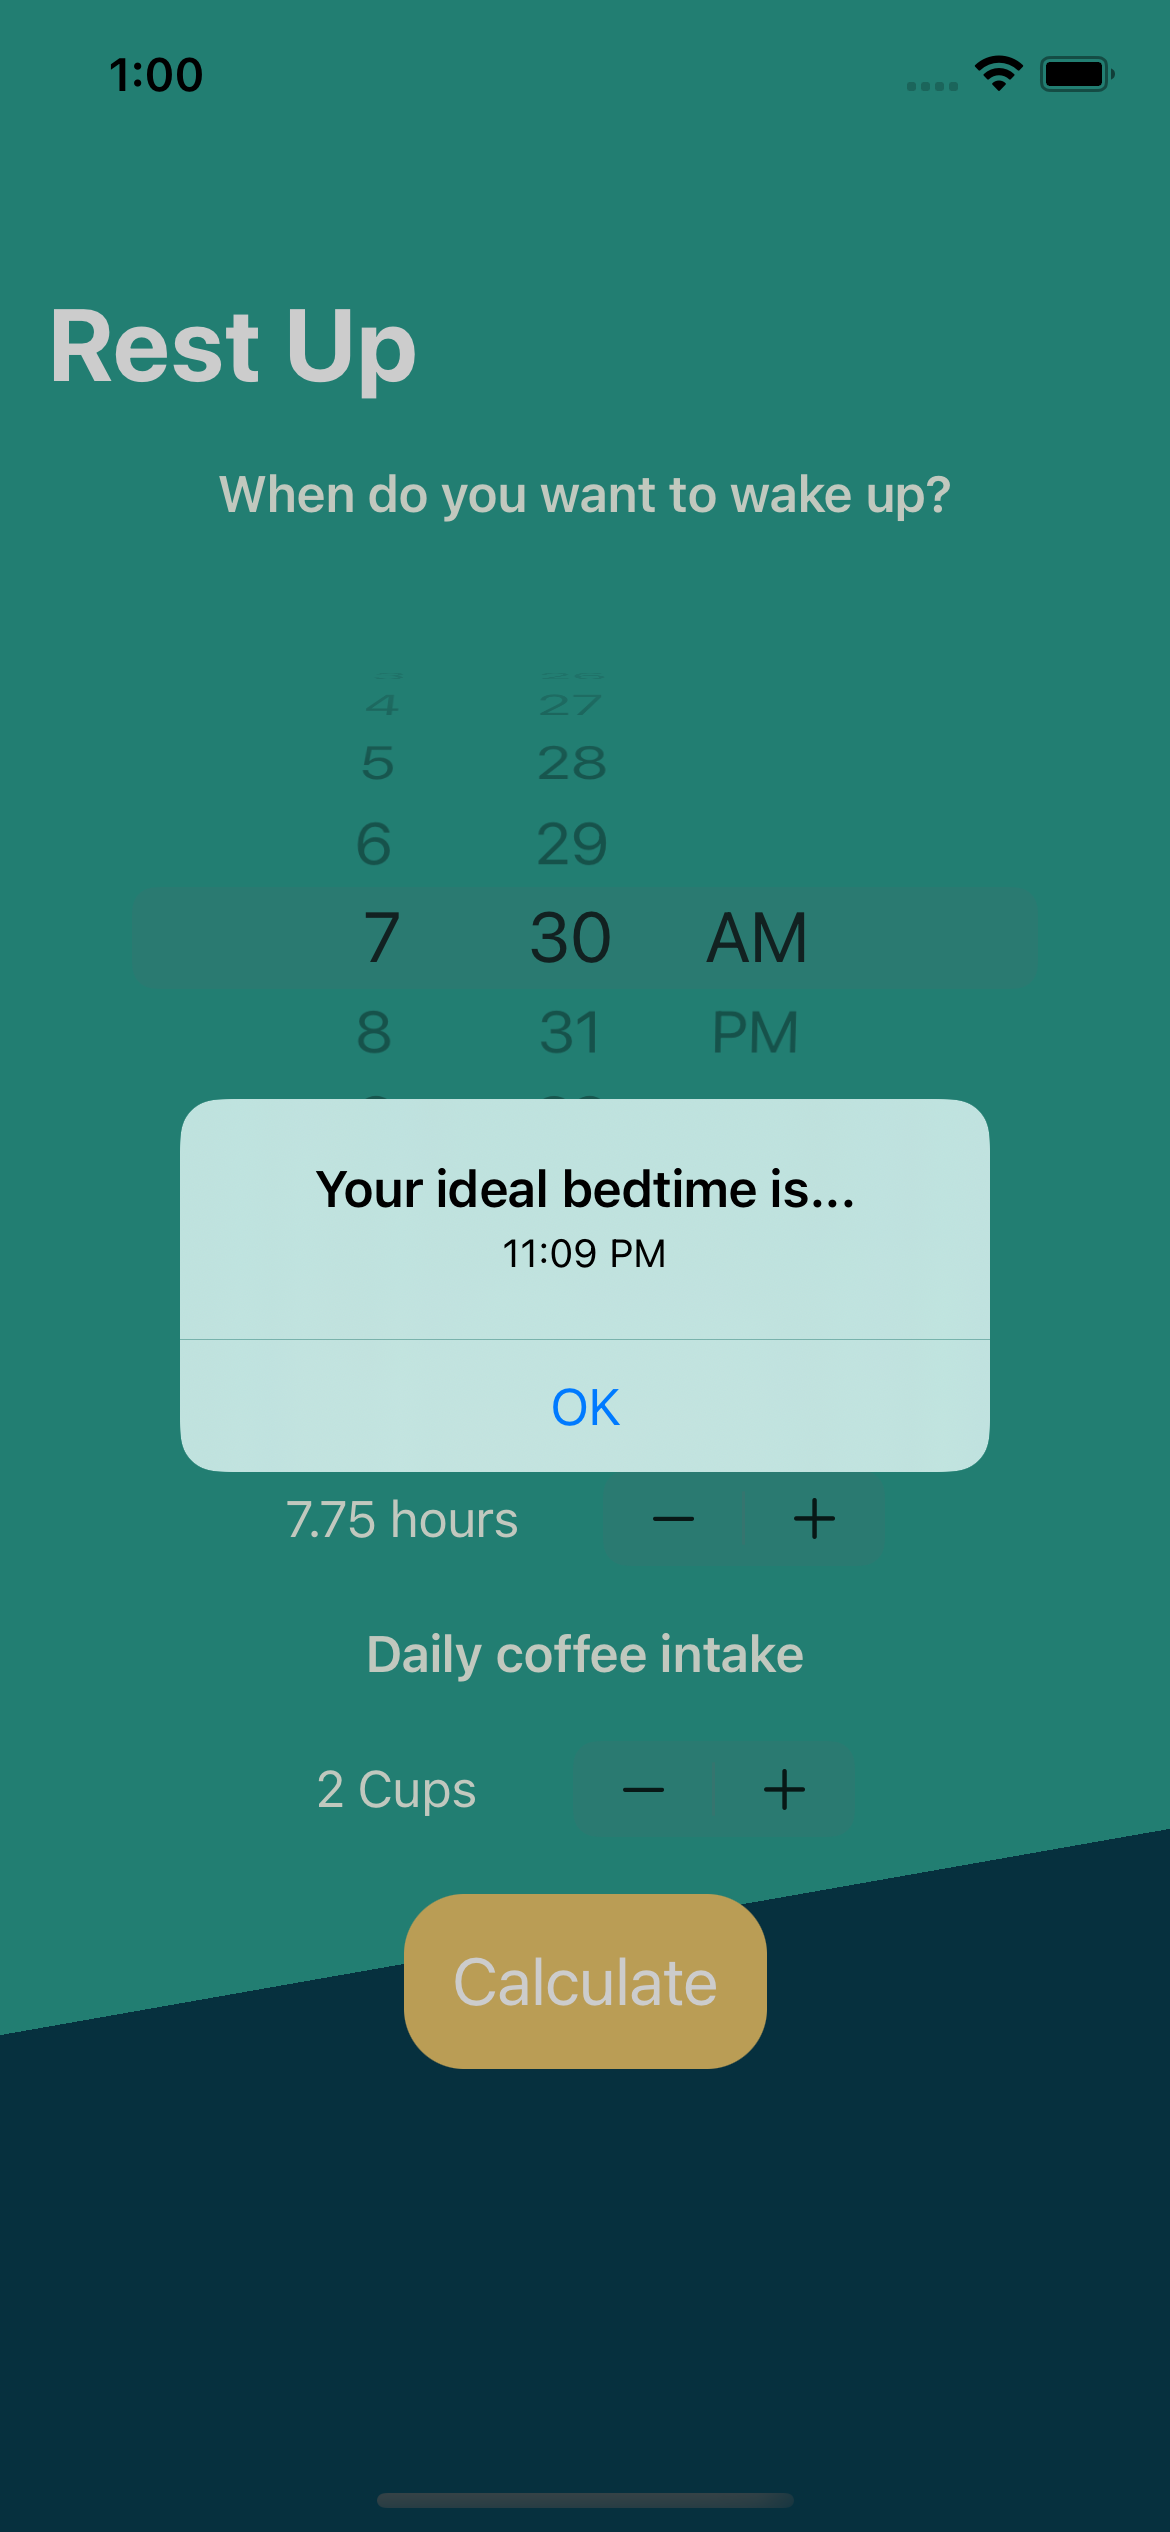
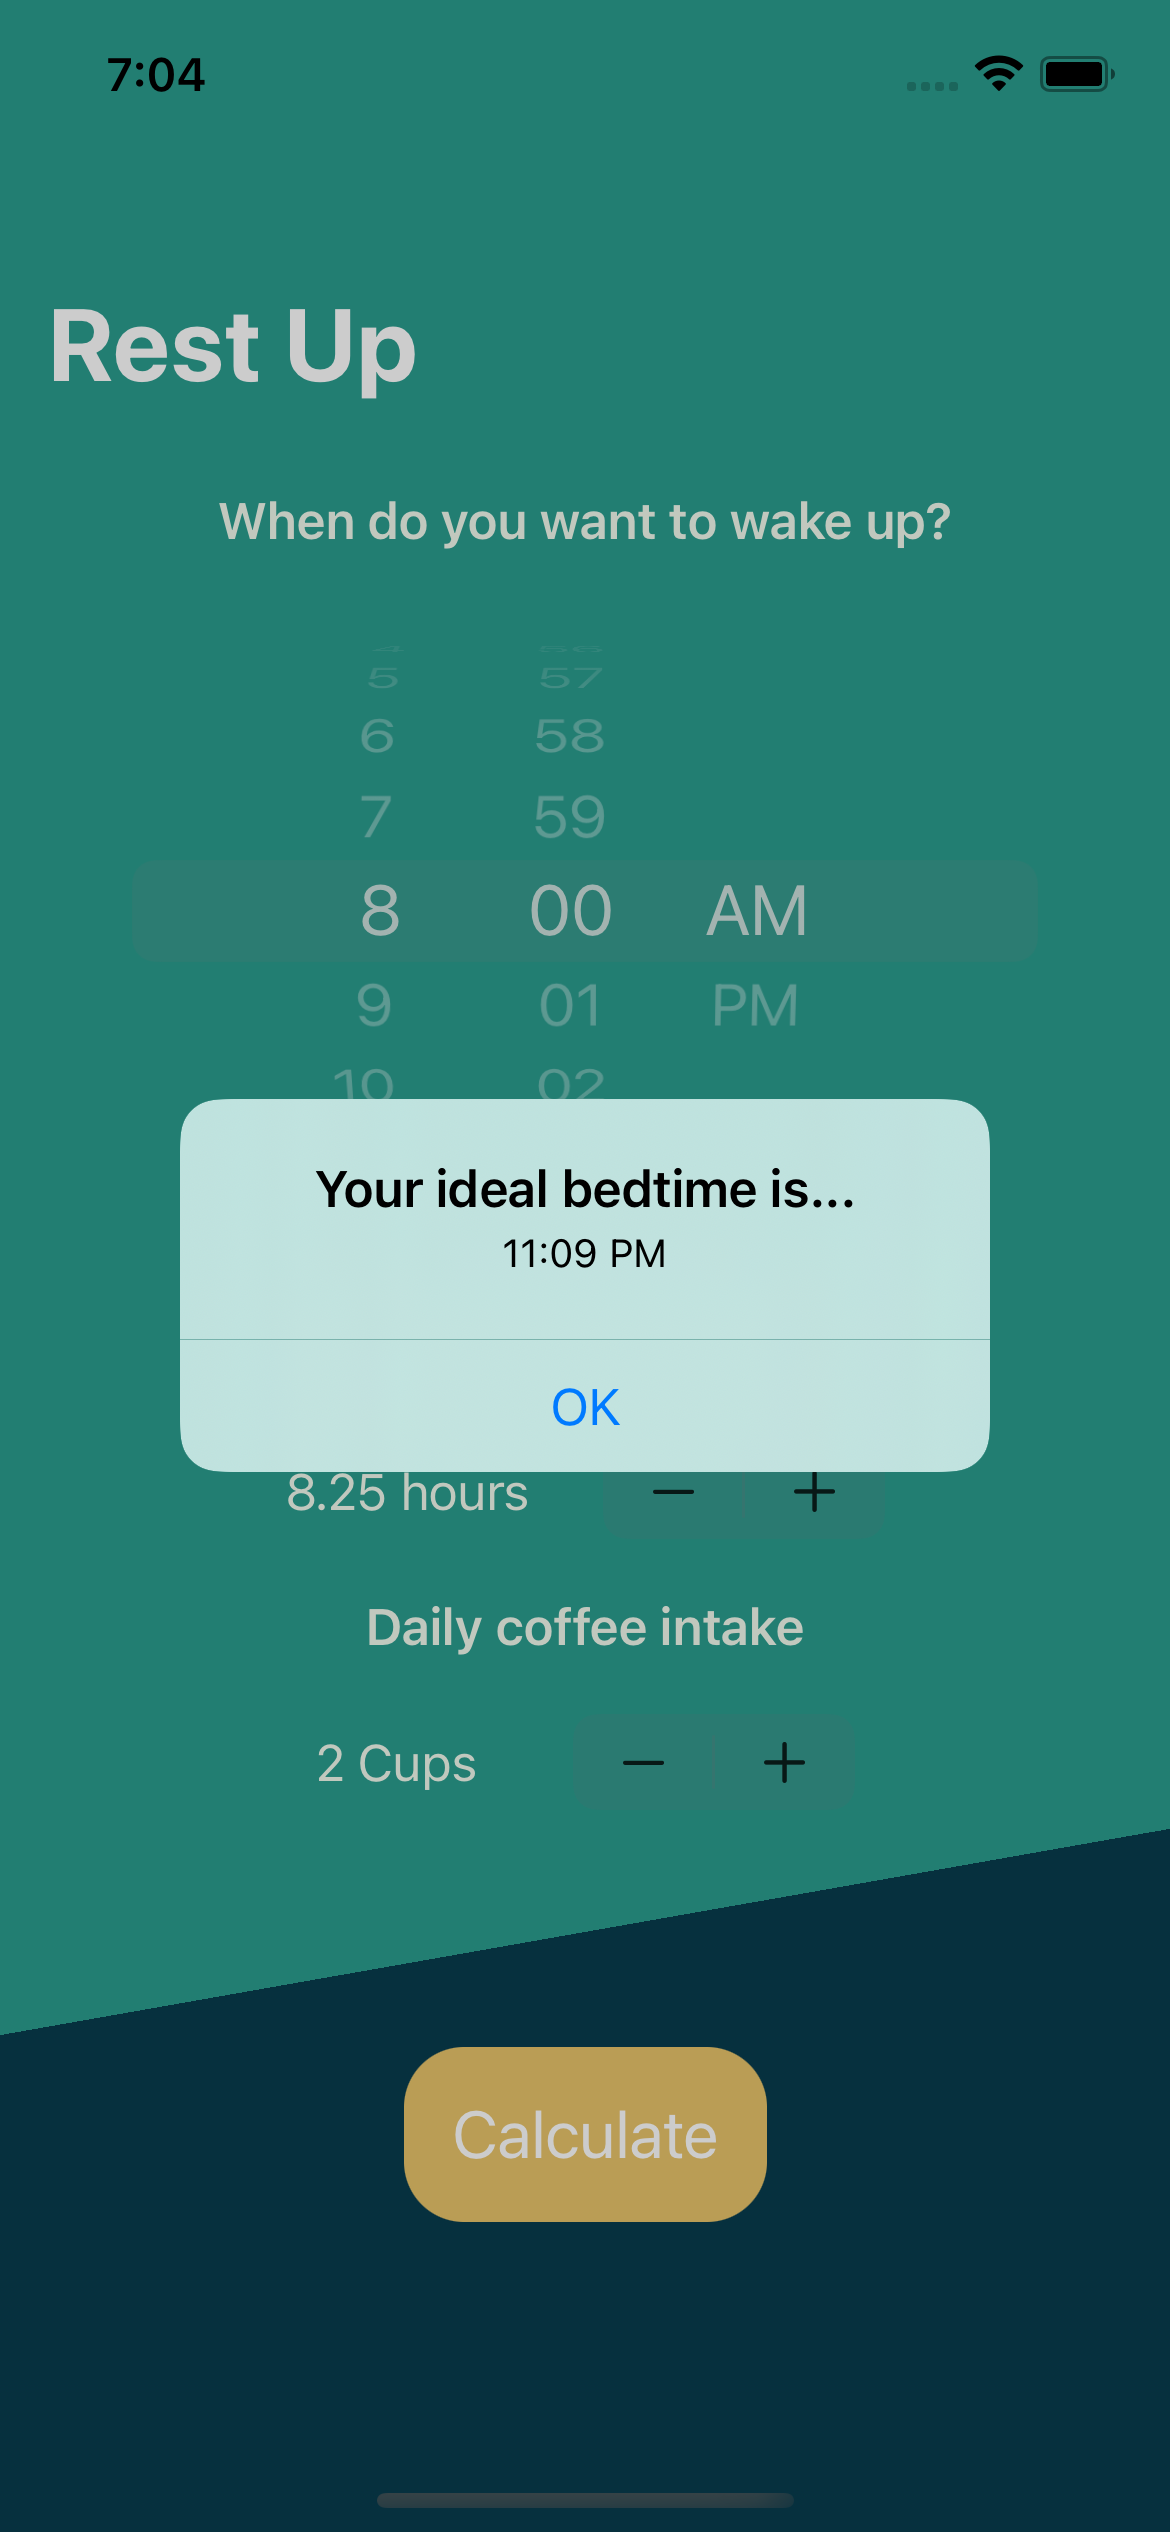
updated readme and UI

diff --git a/rest-up/ContentView.swift b/rest-up/ContentView.swift
@@ -24,7 +24,6 @@ struct ContentView: View {
     var body: some View {
         NavigationView {
             ZStack {
-                
                 Color(red: 42/250, green: 157/255, blue: 143/255)
                 
                 Rectangle().foregroundColor(Color(red: 7/250, green: 59/250, blue: 76/250))
@@ -32,53 +31,57 @@ struct ContentView: View {
                     .edgesIgnoringSafeArea(/*@START_MENU_TOKEN@*/.all/*@END_MENU_TOKEN@*/)
                     .offset(y: 420)
                     
-                
-                    VStack (spacing: 30){
-
-                            // Date Picker and time
-                            Text("When do you want to wake up?")
-                                .font(.headline)
-
+                VStack (spacing: 30){
+                    VStack {
+                        // Date Picker and time
+                        Text("When do you want to wake up?")
+                            .font(.headline)
+                        
+                        Group {
                             DatePicker("Please enter a time",
                                        selection: $wakeUp,
                                        displayedComponents:
                                         .hourAndMinute)
                                 .labelsHidden()
                                 .datePickerStyle(WheelDatePickerStyle())
-                
-                            
-                            Text("Desired amount of sleep")
-                                .font(.headline)
-                            
-                            Stepper(value: $sleepAmount, in: 4...12, step: 0.25) {
-                                Text("\(sleepAmount, specifier: "%g") hours")
-                            }.frame(width: 200, height: 10, alignment: /*@START_MENU_TOKEN@*/.center/*@END_MENU_TOKEN@*/)
-                        
-
-                            // Coffee Intake
-                            Group {
-                                Text("Daily coffee intake")
-                                    .font(.headline)
-                                
-                                Stepper(value: $coffeeAmount, in: 1...20) {
-                                    if coffeeAmount == 1 {
-                                        Text("1 Cup")
-                                    } else {
-                                        Text("\(coffeeAmount) Cups")
-                                    }
-                                }.frame(width: 180, height: 10, alignment: /*@START_MENU_TOKEN@*/.center/*@END_MENU_TOKEN@*/)
-                            }
-                        
-                        Button(action: calculateBedTime) {
-                            Text("Calculate")
-                        }.font(.title2)
-                        .foregroundColor(.white)
-                        .padding()
-                        .background(Color.init(red: 233/255, green: 196/255, blue: 106/255))
-                        .cornerRadius(20)
-                        
+                        }
+                        .colorInvert()
                         
                     }
+                    
+                    VStack (spacing: 30){
+                        Text("Desired amount of sleep")
+                            .font(.headline)
+                        
+                        Stepper(value: $sleepAmount, in: 4...12, step: 0.25) {
+                                Text("\(sleepAmount, specifier: "%g") hours")
+                            }.frame(width: 200, height: 10, alignment: /*@START_MENU_TOKEN@*/.center/*@END_MENU_TOKEN@*/)
+
+                    }
+                    
+                    VStack (spacing: 30) {
+                        Text("Daily coffee intake")
+                            .font(.headline)
+                        
+                        Stepper(value: $coffeeAmount, in: 1...20) {
+                            if coffeeAmount == 1 {
+                                Text("1 Cup")
+                            } else {
+                                Text("\(coffeeAmount) Cups")
+                            }
+                        }.frame(width: 180, height: 10, alignment: /*@START_MENU_TOKEN@*/.center/*@END_MENU_TOKEN@*/)
+                        
+                    }
+                    
+                    Button(action: calculateBedTime) {
+                        Text("Calculate")
+                    }.font(.title2)
+                    .foregroundColor(.white)
+                    .padding()
+                    .background(Color.init(red: 233/255, green: 196/255, blue: 106/255))
+                    .cornerRadius(20)
+                    .offset(y: 60)
+                }
                     // Colors for the design
                     .foregroundColor(Color.init(red: 241/255, green: 250/255, blue: 238/255))
                     .alert(isPresented: $showingAlert) {
